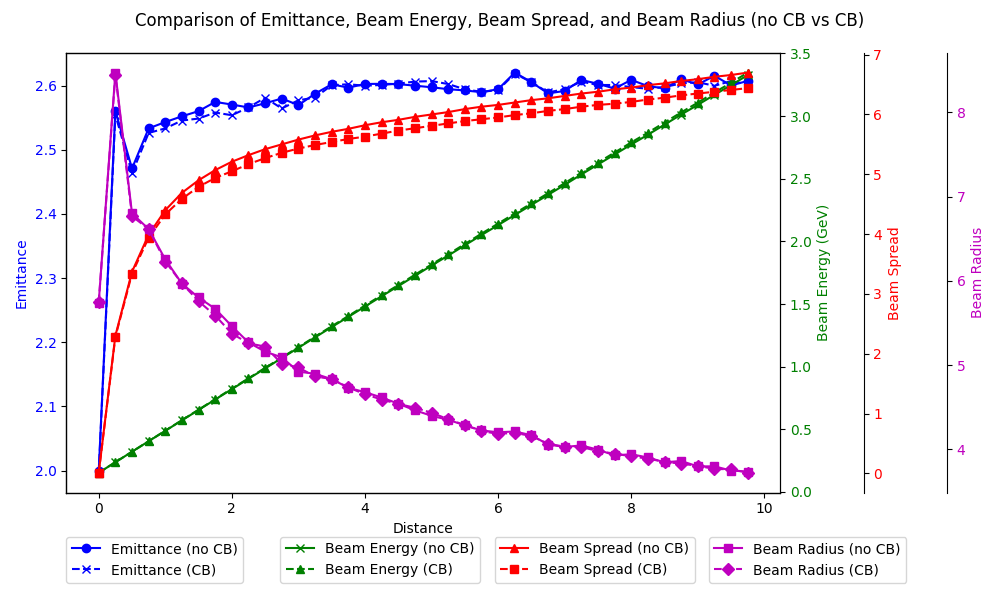
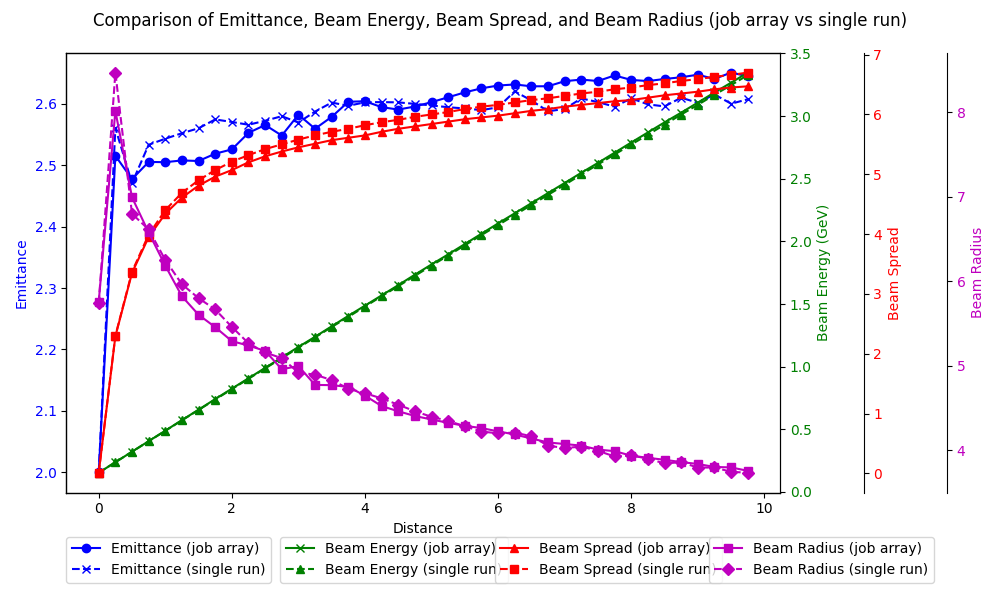
Checking job array results

diff --git a/Data_processing/Parameters/CB_beam_comparison.py b/Data_processing/Parameters/CB_beam_comparison.py
@@ -117,7 +117,7 @@ def get_properties_em(data_dir,save_num,species):
 run_no=40 #change to run number of interest usually last number in scan -1
 data_directory=r"emittance_scan" #change to directory within cluster where scan is
 species=2
-suffix=np.array(["fix_no_CB","fix_CB"])
+suffix=np.array(["2.0_radius-1.0","2.0_radius-1.0"])
 sub_folders= [f"emittance-{num}" for num in suffix] #change depending on scan
 print("sub folder:",sub_folders)
 
@@ -199,12 +199,12 @@ for index, subfolder in enumerate(sub_folders):
 
 
 # Read the first CSV into DataFrame
-df1 = pd.read_csv('output_emittance-fix_no_CB_em.csv')
+df1 = pd.read_csv('output_emittance-2.0_radius-1.0_em.csv')
 # Read the second CSV into DataFrame
-df2 = pd.read_csv('output_emittance-fix_CB_em.csv')
+df2 = pd.read_csv('output_emittance-fix_no_CB_em.csv')
 
-df3=pd.read_csv('output_emittance-fix_no_CB_sync.csv')
-df4=pd.read_csv('output_emittance-fix_CB_sync.csv')
+df3=pd.read_csv('output_emittance-2.0_radius-1.0_sync.csv')
+df4=pd.read_csv('output_emittance-fix_no_CB_sync.csv')
 print(df4.columns)
 
 
@@ -222,24 +222,24 @@ ax3.spines['right'].set_position(('outward', 60))
 ax4.spines['right'].set_position(('outward', 120))
 
 # Plot Emittance vs Distance for the first file on ax1 (solid line)
-ax1.plot(df1.index/4, df1['Emittance'], color='b', label='Emittance (no CB)', linestyle='-', marker='o')
+ax1.plot(df1.index/4, df1['Emittance'], color='b', label='Emittance (job array)', linestyle='-', marker='o')
 # Plot Emittance vs Distance for the second file on ax1 (dashed line)
-ax1.plot(df2.index/4, df2['Emittance'], color='b', label='Emittance (CB)', linestyle='--', marker='x')
+ax1.plot(df2.index/4, df2['Emittance'], color='b', label='Emittance (single run)', linestyle='--', marker='x')
 
 # Plot Beam Energy vs Distance for the first file on ax2 (solid line)
-ax2.plot(df1.index/4, df1['Beam Energy'], color='g', label='Beam Energy (no CB)', linestyle='-', marker='x')
+ax2.plot(df1.index/4, df1['Beam Energy'], color='g', label='Beam Energy (job array)', linestyle='-', marker='x')
 # Plot Beam Energy vs Distance for the second file on ax2 (dashed line)
-ax2.plot(df2.index/4, df2['Beam Energy'], color='g', label='Beam Energy (CB)', linestyle='--', marker='^')
+ax2.plot(df2.index/4, df2['Beam Energy'], color='g', label='Beam Energy (single run)', linestyle='--', marker='^')
 
 # Plot Beam Spread vs Distance for the first file on ax3 (solid line)
-ax3.plot(df1.index/4, df1['Beam Spread'], color='r', label='Beam Spread (no CB)', linestyle='-', marker='^')
+ax3.plot(df1.index/4, df1['Beam Spread'], color='r', label='Beam Spread (job array)', linestyle='-', marker='^')
 # Plot Beam Spread vs Distance for the second file on ax3 (dashed line)
-ax3.plot(df2.index/4, df2['Beam Spread'], color='r', label='Beam Spread (CB)', linestyle='--', marker='s')
+ax3.plot(df2.index/4, df2['Beam Spread'], color='r', label='Beam Spread (single run)', linestyle='--', marker='s')
 
 # Plot Beam Radius vs Distance for the first file on ax4 (solid line)
-ax4.plot(df1.index/4, df1['Beam Radius'], color='m', label='Beam Radius (no CB)', linestyle='-', marker='s')
+ax4.plot(df1.index/4, df1['Beam Radius'], color='m', label='Beam Radius (job array)', linestyle='-', marker='s')
 # Plot Beam Radius vs Distance for the second file on ax4 (dashed line)
-ax4.plot(df2.index/4, df2['Beam Radius'], color='m', label='Beam Radius (CB)', linestyle='--', marker='D')
+ax4.plot(df2.index/4, df2['Beam Radius'], color='m', label='Beam Radius (single run)', linestyle='--', marker='D')
 
 # Set axis labels
 ax1.set_xlabel('Distance')
@@ -262,7 +262,7 @@ ax4.legend(loc='upper left', bbox_to_anchor=(0.9, -0.1), borderaxespad=0., ncol=
 
 
 # Add title and grid
-fig.suptitle('Comparison of Emittance, Beam Energy, Beam Spread, and Beam Radius (no CB vs CB)')
+fig.suptitle('Comparison of Emittance, Beam Energy, Beam Spread, and Beam Radius (job array vs single run)')
 fig.tight_layout()  # Adjust layout to avoid overlapping labels
 
 plt.savefig(r'plots\em_cb_comparison_plot.png')
@@ -281,19 +281,19 @@ ax4 = ax1.twinx()  # Create a fourth y-axis that shares the x-axis
 ax3.spines['right'].set_position(('outward', 60))
 
 # Plot Emittance vs Distance for the first file on ax1 (solid line)
-ax1.plot(df3.index, df3['Uv/X-ray'], color='b', label='UV:Xray (no CB)', linestyle='-', marker='o')
+ax1.plot(df3.index, df3['Uv/X-ray'], color='b', label='UV:Xray (job array)', linestyle='-', marker='o')
 # Plot Emittance vs Distance for the second file on ax1 (dashed line)
-ax1.plot(df4.index, df4['Uv/X-ray'], color='b', label='UV:Xray  (CB)', linestyle='--', marker='x')
+ax1.plot(df4.index, df4['Uv/X-ray'], color='b', label='UV:Xray  (single run)', linestyle='--', marker='x')
 
 # Plot Beam Energy vs Distance for the first file on ax2 (solid line)
-ax2.plot(df3.index, df3['Mean Theta'], color='g', label='Mean Theta (no CB)', linestyle='-', marker='x')
+ax2.plot(df3.index, df3['Mean Theta'], color='g', label='Mean Theta (job array)', linestyle='-', marker='x')
 # Plot Beam Energy vs Distance for the second file on ax2 (dashed line)
-ax2.plot(df4.index, df4['Mean Theta'], color='g', label='Mean Theta (CB)', linestyle='--', marker='^')
+ax2.plot(df4.index, df4['Mean Theta'], color='g', label='Mean Theta (single run)', linestyle='--', marker='^')
 
 # Plot Beam Spread vs Distance for the first file on ax3 (solid line)
-ax3.plot(df3.index, df3['Critical Energy'], color='r', label='Critical Energy (no CB)', linestyle='-', marker='^')
+ax3.plot(df3.index, df3['Critical Energy'], color='r', label='Critical Energy (job array)', linestyle='-', marker='^')
 # Plot Beam Spread vs Distance for the second file on ax3 (dashed line)
-ax3.plot(df4.index, df4['Critical Energy'], color='r', label='Critical Energy (CB)', linestyle='--', marker='s')
+ax3.plot(df4.index, df4['Critical Energy'], color='r', label='Critical Energy (single run)', linestyle='--', marker='s')
 
 # Set axis labels
 ax1.set_xlabel('Distance')

diff --git a/Data_processing/Parameters/synchrotron_carys3D_sys_input_compare.py b/Data_processing/Parameters/synchrotron_carys3D_sys_input_compare.py
@@ -137,7 +137,7 @@ full_energy_array=[]
 full_phi_array=[]
 full_theta_array=[]
 full_synchrotron_array=[]
-filename=rf"{script_dir}\emittance-{emittance_no}\h5files\v3d_synchrotron_{file_number}.h5"
+filename=rf"{script_dir}\emittance-{emittance_no}\v3d_synchrotron_{file_number}.h5"
 
 
 print("filename:"+str(filename))
